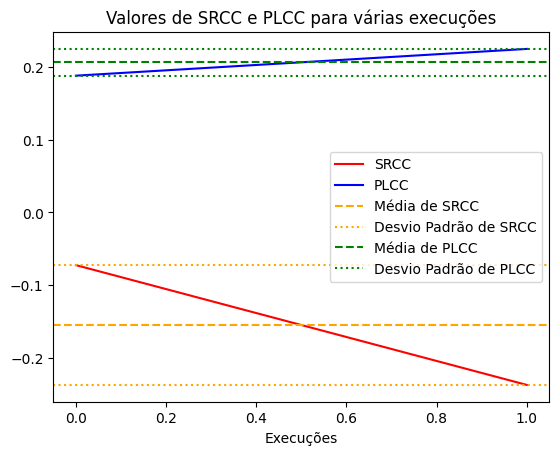
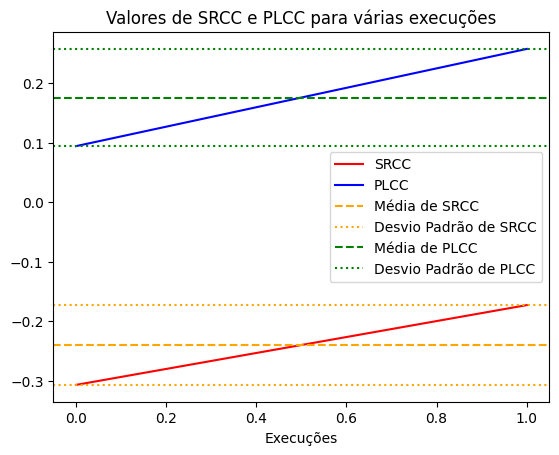
octdiqa with error on the fully connected layer

diff --git a/image_classification/neural_networks/octdiqa.py b/image_classification/neural_networks/octdiqa.py
@@ -1,0 +1,122 @@
+import torch
+import torch.nn as nn
+from .octconv import OctaveConv, OctaveConv_ACT
+
+class OctDIQA1(nn.Module):
+
+    def __init__(self, alpha, conv_vector:list):
+        super(OctDIQA, self).__init__()
+        self.conv_vector = conv_vector
+
+        if conv_vector[0] == 0:
+            self.conv1 = nn.Conv2d(in_channels = 1,
+                                   out_channels = 48,
+                                   kernel_size = 3,
+                                   stride = 1,
+                                   padding = 1)
+        else:
+            self.conv1 = OctaveConv(in_channels = 1)
+
+
+class OctDIQA(nn.Module):
+    def __init__(self, alpha=0.125):
+        super(OctDIQA,self).__init__()
+        self.alpha = alpha 
+        self.conv1 = OctaveConv_ACT(in_channels = 1, 
+                            out_channels = 48, 
+                            kernel_size = 3,
+                            alpha_in = self.alpha,
+                            alpha_out = self.alpha, 
+                            stride = 1, 
+                            padding = 1)
+
+        self.conv2 = OctaveConv_ACT(in_channels = 48,
+                            out_channels = 48,
+                            kernel_size = 3,
+                            alpha_in = self.alpha,
+                            alpha_out = self.alpha,
+                            stride = 2, 
+                            padding = 1)
+
+        self.conv3 = OctaveConv_ACT(in_channels = 48,
+                            out_channels = 64,
+                            kernel_size = 3,
+                            alpha_in = self.alpha,
+                            alpha_out = self.alpha,
+                            stride = 1,
+                            padding = 1)
+
+        self.conv4 = OctaveConv_ACT(in_channels = 64,
+                               out_channels = 64,
+                               kernel_size = 3,
+                               alpha_in = self.alpha,
+                               alpha_out = self.alpha,
+                               stride = 2,
+                               padding = 1)
+
+        self.conv5 = OctaveConv_ACT(in_channels = 64,
+                               out_channels = 64,
+                               kernel_size = 3,
+                               alpha_in = self.alpha,
+                               alpha_out = self.alpha,
+                               stride = 1,
+                               padding = 1)
+
+        self.conv6 = OctaveConv_ACT(in_channels = 64,
+                               out_channels = 64,
+                               kernel_size = 3,
+                               alpha_in = self.alpha,
+                               alpha_out = self.alpha,
+                               stride = 1,
+                               padding = 1)
+
+        self.conv7 = OctaveConv_ACT(in_channels = 64,
+                               out_channels = 128,
+                               kernel_size = 3,
+                               alpha_in = self.alpha,
+                               alpha_out = self.alpha,
+                               stride = 1,
+                               padding = 1)
+
+        self.conv8 = OctaveConv_ACT(in_channels = 128,
+                               out_channels = 128,
+                               kernel_size = 3,
+                               alpha_in = self.alpha,
+                               alpha_out = self.alpha,
+                               stride = 1,
+                               padding = 1)
+
+        self.conv9 = OctaveConv_ACT(in_channels = 128,
+                               out_channels = 1,
+                               kernel_size = 1,
+                               alpha_in = self.alpha,
+                               alpha_out = 0,
+                               stride = 2,
+                               padding = 1)
+
+        self.global_average_pooling = nn.AdaptiveAvgPool2d((1,1))
+        self.fc1 = nn.Linear(128, 128)
+        self.fc2 = nn.Linear(128, 1)
+        self.relu = nn.ReLU()
+
+    def forward(self, x, mode=2):
+        x_h, x_l = self.conv1(x)
+        x_h, x_l = self.conv2((x_h,x_l))
+        x_h, x_l = self.conv3((x_h,x_l))
+        x_h, x_l = self.conv4((x_h,x_l))
+        x_h, x_l = self.conv5((x_h,x_l))
+        x_h, x_l = self.conv6((x_h,x_l))
+        x_h, x_l = self.conv7((x_h,x_l))
+        x_h_8, x_l_8 = self.conv8((x_h, x_l))
+
+        if mode == 1:
+            e = self.conv9(x_h_8)
+            return e
+        
+        else:
+            s =self.global_average_pooling(x_h_8)
+            s = s.squeeze(3).squeeze(2)
+            s = self.relu(self.fc1(s))
+            s = self.fc2(s)
+            return s
+#rsync -avz /Live_IQA_release2 softex@192.168.155.10:~/softex/Documents/lsa4/octconv_cnn/image_classification/data

diff --git a/image_classification/neural_networks/octconv.py b/image_classification/neural_networks/octconv.py
@@ -37,7 +37,6 @@ class OctaveConv(nn.Module):
                                   padding = padding, dilation = dilation, groups=math.ceil(groups - alpha_in * groups), bias = bias)
         
     def forward(self, x):
-        file = open("log.txt", "a")
     
         x_h, x_l = x if type(x) is tuple else (x, None)
 
@@ -81,7 +80,21 @@ class Conv_BN(nn.Module):
         x_h = self.bn_h(x_h)
         x_l = self.bn_l(x_l) if x_l is not None else None
         return x_h, x_l
+    
+class OctaveConv_ACT(nn.Module):
+    def __init__(self, in_channels, out_channels, kernel_size, alpha_in = 0.5, alpha_out = 0.5, stride = 1, padding = 0, dilation = 1,
+                groups=1, bias = False, activation_layer = nn.ReLU):
+        super(OctaveConv_ACT, self).__init__()
+        self.conv = OctaveConv(in_channels, out_channels, kernel_size, alpha_in, alpha_out, stride, padding, dilation, groups, bias)
 
+        self.act = activation_layer(inplace = True)
+
+    def forward(self, x):
+        x_h, x_l = self.conv(x)
+        x_h = self.act(x_h)
+        x_l = self.act(x_l) if x_l is not None else None
+        return x_h, x_l
+    
 class Conv_BN_ACT(nn.Module):
     def __init__(self, in_channels, out_channels, kernel_size, alpha_in = 0.5, alpha_out = 0.5, stride = 1, padding = 0, dilation = 1,
                 groups=1, bias = False, norm_layer = nn.BatchNorm2d, activation_layer = nn.ReLU):

diff --git a/image_classification/diqa_training.py b/image_classification/diqa_training.py
@@ -8,6 +8,7 @@ import numpy as np
 from preprocess_images.dataset import get_dataset
 from preprocess_images.preprocess import normalize_image
 from neural_networks.diqa import DIQA
+from neural_networks.octdiqa import OctDIQA
 from train_test_nn.train import train_val_diqa
 from train_test_nn.test import validate_model_regression
 
@@ -25,11 +26,11 @@ def execute_diqa(epochs:int):
     device = torch.device('cuda:0' if torch.cuda.is_available() else 'cpu')
     torch.cuda.empty_cache()
 
-    model = DIQA().to(device)
+    model = OctDIQA().to(device)
     optimizer = torch.optim.NAdam(model.parameters(), lr = 2 * 10 ** -4, momentum_decay=0.9)
     criterion = torch.nn.MSELoss()
 
-    #print(torch.cuda.memory_summary(device=None, abbreviated=False))
+    print(torch.cuda.memory_summary(device=None, abbreviated=False))
 
     all_losses = train_val_diqa(model, epochs, criterion, optimizer, device, trainloader, valloader)
 
@@ -69,7 +70,7 @@ if __name__ == '__main__':
 
     srcc_list, plcc_list = [], []
     for i in range(2):
-        model, metrics = execute_diqa(1)
+        model, metrics = execute_diqa(executions)
         srcc_list.append(metrics['SRCC'])
         plcc_list.append(metrics['PLCC'])
         if metrics['SRCC'] >= max(srcc_list):
